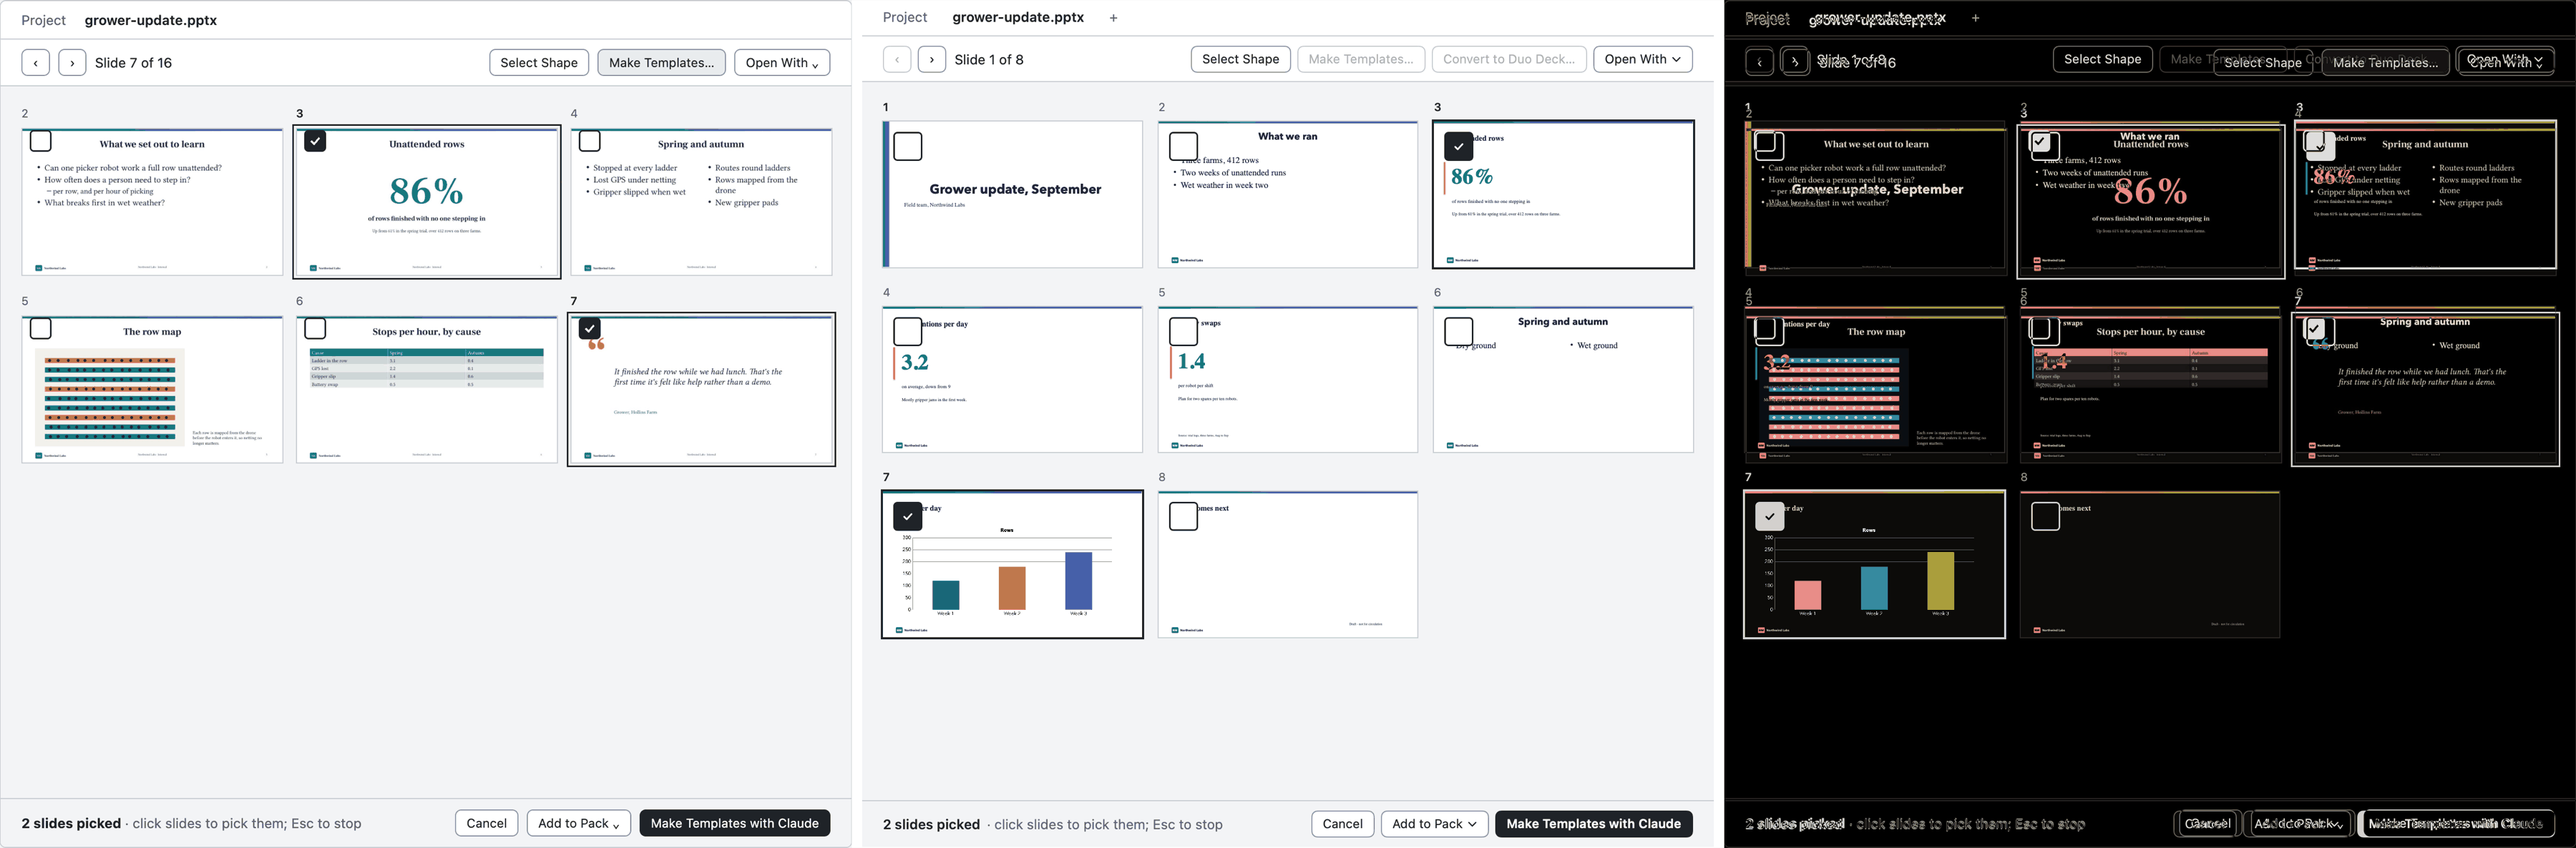
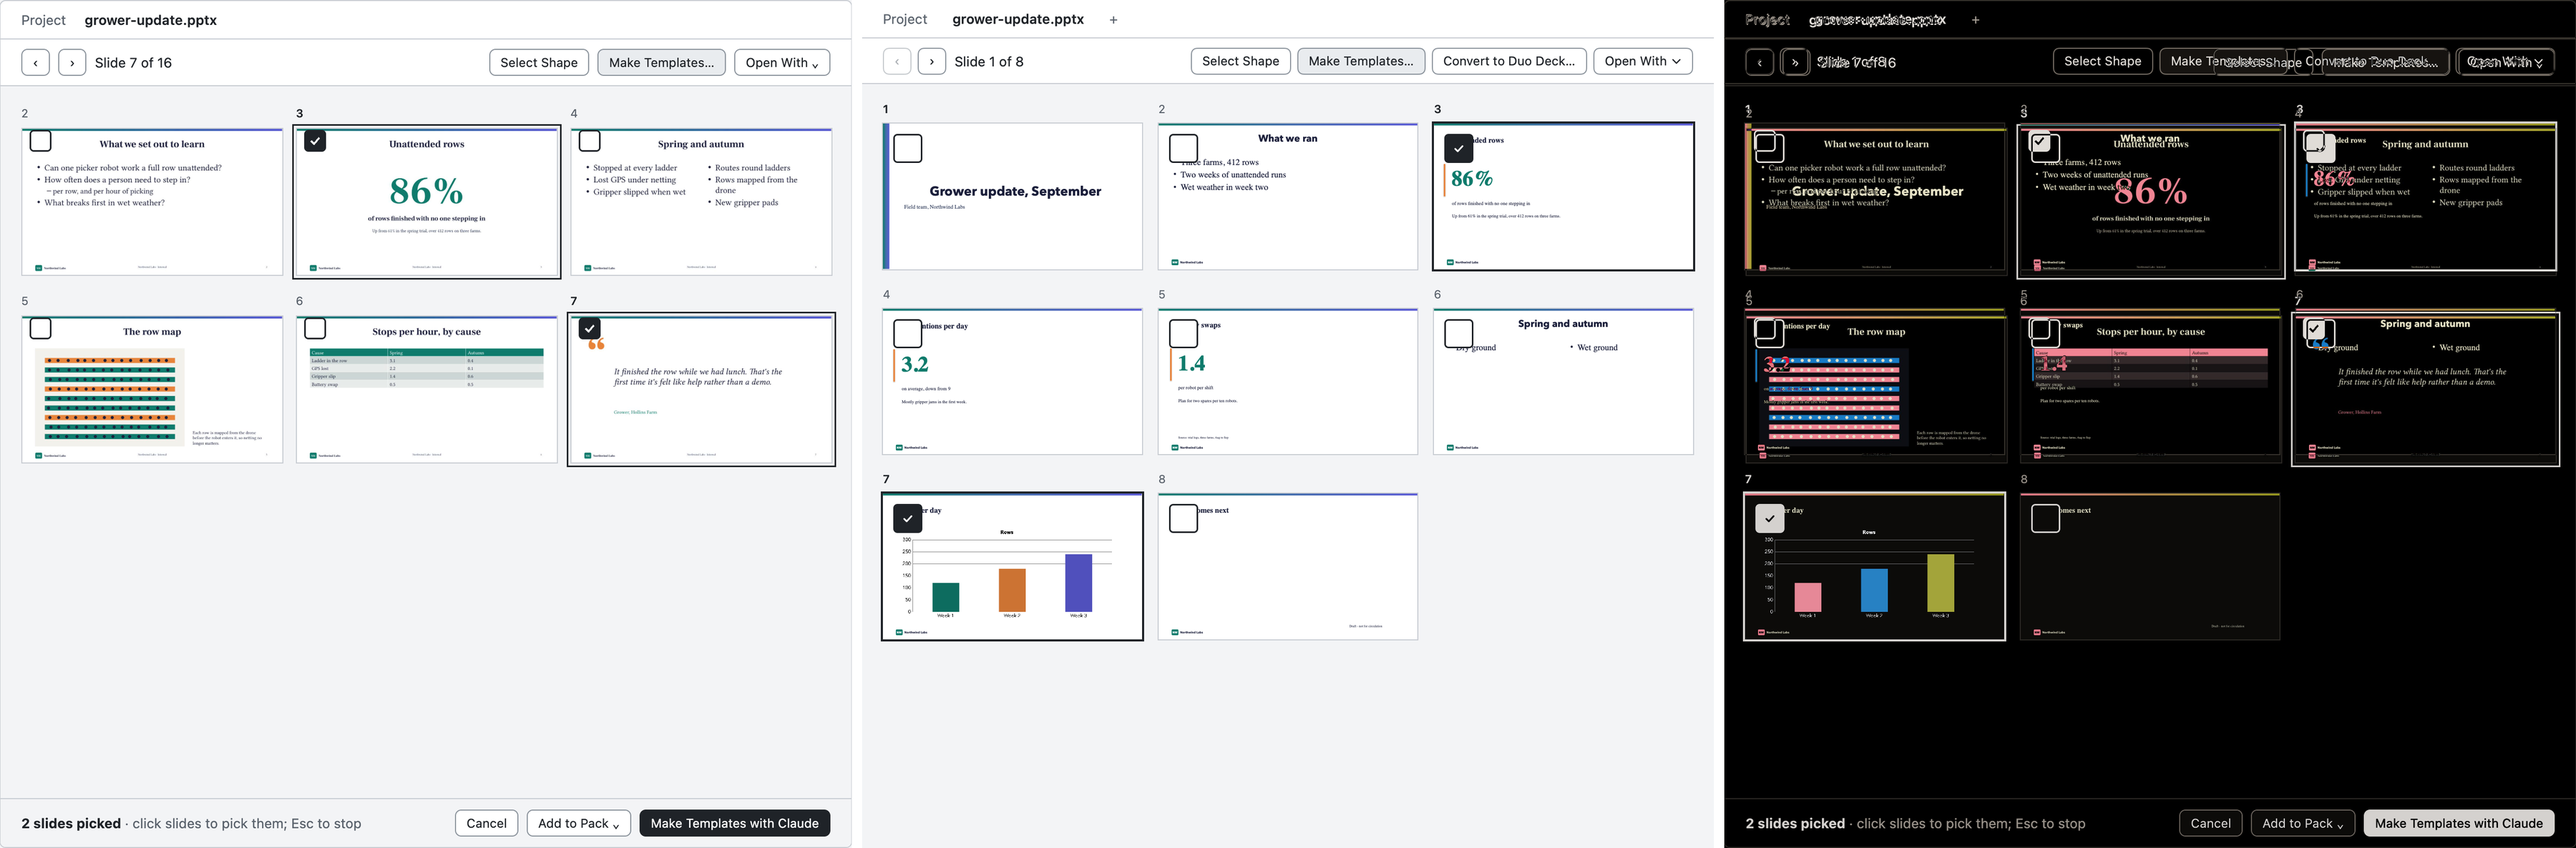
Duo Decks P3b fix-up: Make Templates… pressed while picking, both pptx buttons live (the bar read a stale state), Select Shape and slide picking exclusive; 820 proofs recaptured

diff --git a/Sources/DuoKit/Deck/DeckBarViews.swift b/Sources/DuoKit/Deck/DeckBarViews.swift
@@ -126,11 +126,15 @@ struct DeckPptxButtons: View {
     var file: URL? = nil
 
     var body: some View {
+        // The viewer isn't observable: without this the buttons keep the state they were first drawn in (dimmed, while loading).
+        let _ = model.pickerRevision
+        let live = DeckViewer.pptxButtonsEnabled(viewer.state)
         if folded > 0 {
             Menu {
                 Button("Make Templates…") { toggleMake() }   // action: deck template pick
-                    .disabled(viewer.state != .ready)
+                    .disabled(!live)
                 Button("Convert to Duo Deck…") { model.showConvertDeck(path) }   // action: deck import
+                    .disabled(!live)
                 if folded > 1, let file {
                     Divider()
                     ForEach(Array(FileActions.apps(for: file).enumerated()), id: \.offset) { i, app in
@@ -145,10 +149,10 @@ struct DeckPptxButtons: View {
             .accessibilityLabel("More")
         } else {
             Button("Make Templates…") { toggleMake() }   // action: deck template pick
-                .buttonStyle(DuoButtonStyle(on: viewer.slidePicking)).disabled(viewer.state != .ready).fixedSize()
+                .buttonStyle(DuoButtonStyle(on: viewer.slidePicking)).disabled(!live).fixedSize()
                 .accessibilityIdentifier("deck.make-templates")
             Button("Convert to Duo Deck…") { model.showConvertDeck(path) }   // action: deck import
-                .buttonStyle(.duo).disabled(viewer.state != .ready).fixedSize()
+                .buttonStyle(.duo).disabled(!live).fixedSize()
         }
     }
 

diff --git a/Sources/DuoChecks/DeckP3bChecks.swift b/Sources/DuoChecks/DeckP3bChecks.swift
@@ -120,6 +120,20 @@ import Foundation
     }
     check(DuoAction.resolve(["deck", "export", "x.md"])?.0.verb == "deck export" && DuoAction.resolve(["deck", "export", "x.md"])?.0.local == true, "deck export stays the local verb")
     check(!DuoAction.byID[.deckTemplatePick]!.summary.contains("isn't built"), "deck template pick is built")
+    // Make Templates… / Convert to Duo Deck…: live when the deck is drawn (also while picking slides), dimmed otherwise;
+    // Select Shape and slide picking are never both on.
+    check(DeckViewer.pptxButtonsEnabled(.ready) && !DeckViewer.pptxButtonsEnabled(.loading) && !DeckViewer.pptxButtonsEnabled(.failed("x")),
+          "the pptx bar's Make Templates… and Convert to Duo Deck… are live when the deck is drawn")
+    do {
+        _ = NSApplication.shared
+        let v = DeckViewer(resources: repoRoot().appending(path: "Vendor/pptx-renderer"))
+        v.setSlidePicking(true)
+        check(v.slidePicking && !v.picking, "slide picking on: Select Shape is off")
+        v.startPicking()
+        check(v.picking && !v.slidePicking, "Select Shape on turns slide picking off")
+        v.setSlidePicking(true)
+        check(v.slidePicking && !v.picking, "slide picking on turns Select Shape off")
+    }
     let ui = Set(DuoAction.all.flatMap(\.ui))
     for label in ["Problems", "Add Comment", "Export Again", "Export as PowerPoint…", "Show Export in Finder", "Make Templates…", "Make Templates with Claude", "Add to Pack"] {
         check(ui.contains(label), "\"\(label)\" is named by an action")

diff --git a/Sources/DuoKit/Editor/DeckViewer.swift b/Sources/DuoKit/Editor/DeckViewer.swift
@@ -137,6 +137,20 @@ public final class DeckViewer: NSObject, WKScriptMessageHandler, WKNavigationDel
         onChange?()
     }
 
+    /// Select Shape on: slide picking goes off (the two modes are never on together).
+    public func startPicking() {
+        if slidePicking { setSlidePicking(false) }
+        picked = nil
+        picking = true
+        webView.callAsyncJavaScript("window.__duo && __duo.start()", arguments: [:], in: nil, in: world, completionHandler: nil)
+        webView.window?.makeFirstResponder(webView)
+        onChange?()
+    }
+
+    /// Make Templates… and Convert to Duo Deck… are live once the deck is drawn, and stay live while slides are
+    /// picked (Make Templates… then shows pressed and leaves the mode; make-templates board).
+    public static func pptxButtonsEnabled(_ state: State) -> Bool { state == .ready }
+
     /// Sets the ticked slides (`duo2 deck template pick 3,7`).
     public func setPickedSlides(_ slides: [Int]) {
         pickedSlides = Array(Set(slides.filter { $0 >= 1 && $0 <= max(count, 1) })).sorted()

diff --git a/docs/design/duo-decks-study/p3b.md b/docs/design/duo-decks-study/p3b.md
@@ -124,3 +124,5 @@ The window comparisons differ by what the boards mock (the mock's source and ter
 2. **File > New > New Deck...** (`Commands.swift`: `DuoCommand.newDeck`, after New Markdown File; no shortcut, DL-297; enabled with a project folder, like New Markdown File). It calls `showNewDeck()`, the sheet built in P3b. The Files + menu (`NewItemsMenu`) already had New Deck.... Parity: `deck new` lists "New Deck..." in its `ui:`; `docs/cli/duo2.md` regenerated, identical.
 3. **Proof folder** 17 MB to 3.5 MB (42 files). Every `compare-*.png` kept (those wider than 3600 px resampled to 3600); the per-state captures (`p3b-*`, `chip-*`, `picker-*`) scaled to at most 1600 px wide and stored as 128-colour PNGs (flat colours exact, text edges softer than the originals; recapture with `scripts/check-ui.sh` for pixel work). Removed as superseded: `p3b-pptx-{light,dark,classic}.png` (the one-column captures, replaced by the 470/820 grid ones; `compare-p3b-pptx-light.png` is kept and shows the one-column pane), `build-{light,dark,classic}.png` (p3a's split-deck captures, replaced by `p3b-splitdeck-*`; `compare-split-deck-light.png` kept) and `target-split-deck.png` (a copy of the board in `split-view-handoff/screens/png`).
 4. **Checks**: full DuoChecks 5407 passed, 0 failed; `scripts/check-records.sh`: records ok.
+5. **Make Templates… shows pressed while picking, and both pptx buttons are live.** The captures showed Make Templates… and Convert to Duo Deck… dimmed: `DeckPptxButtons` never read `model.pickerRevision` and the viewer isn't observable, so the buttons kept the dimmed state they were first drawn in (while the deck loaded). It now reads the revision (`DeckViewer.pptxButtonsEnabled`), so Make Templates… draws the `selected` fill while picking and stays clickable (click leaves the mode); Select Shape and slide picking switch each other off (`DeckViewer.startPicking`). DuoChecks `deckviewer` covers both.
+6. Recaptured `p3b-pptx-{light,dark,classic}-820.png` and `compare-p3b-pptx-grid-light.png` (mean abs difference 14.72 per channel, 12.11% of pixels differing > 48; the board's pane against the 820 pt pane, as before).
